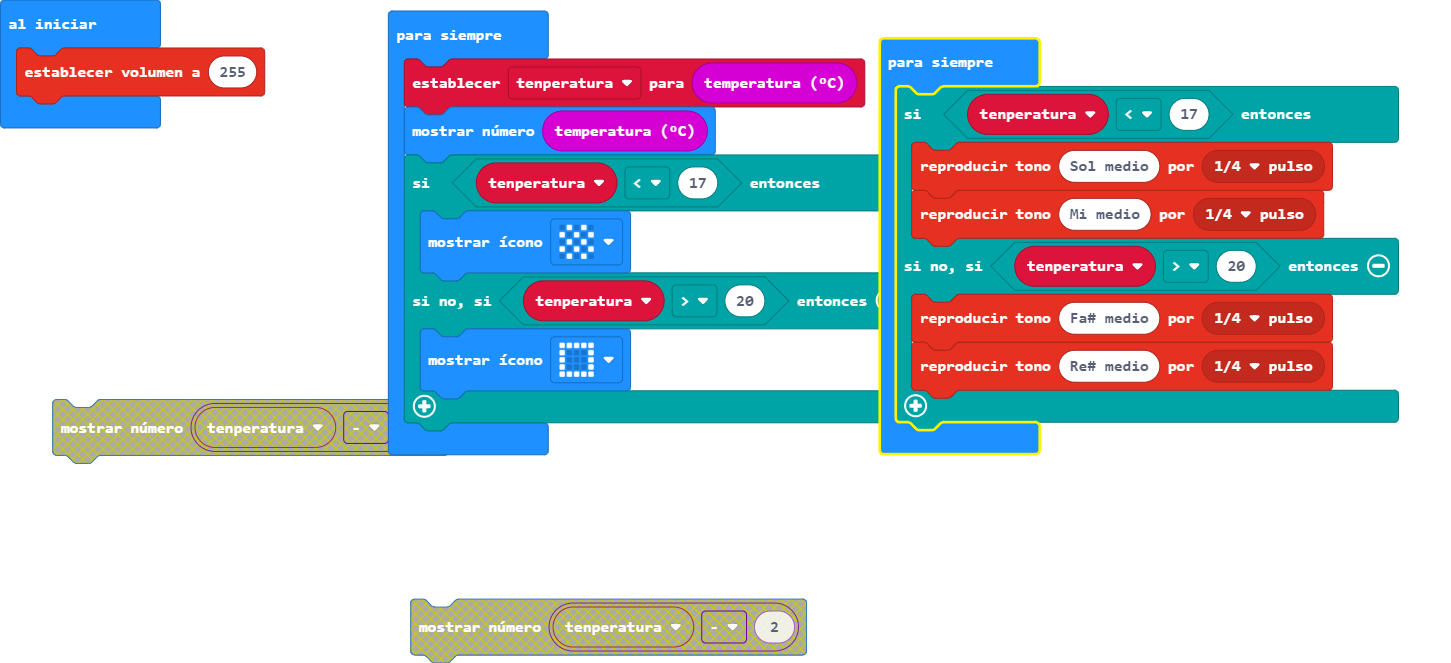
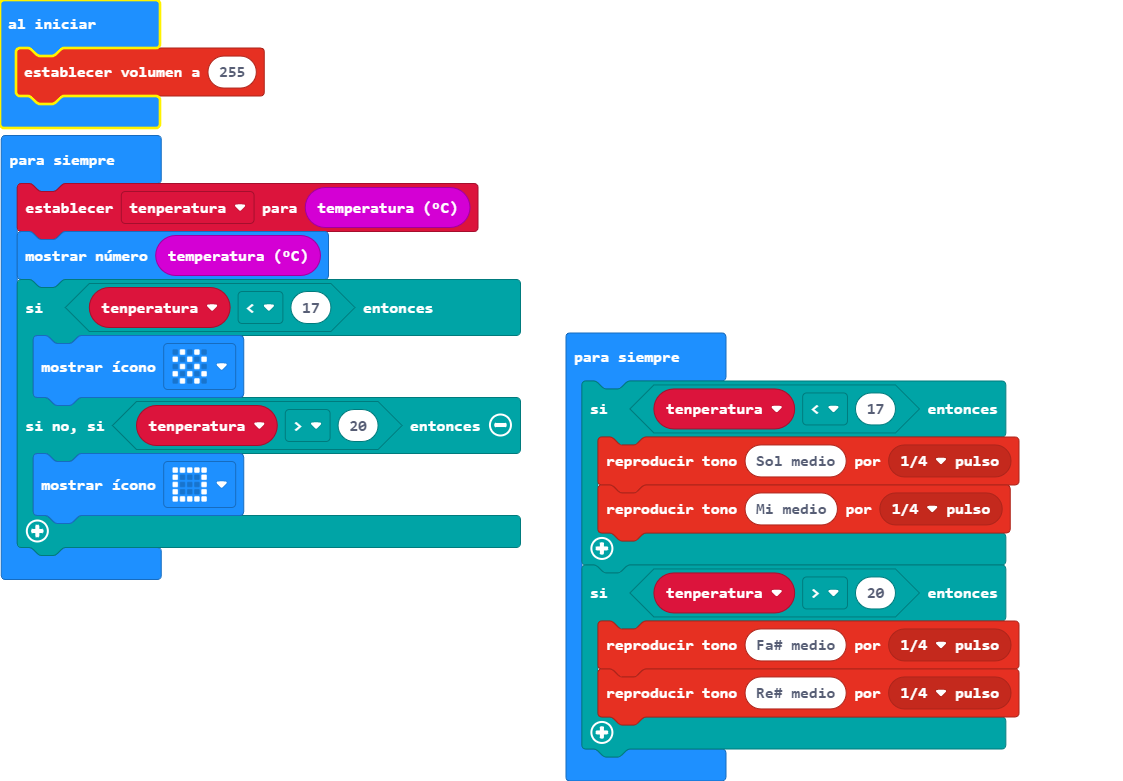
Actualizar main.blocks, main.ts

diff --git a/main.ts b/main.ts
@@ -13,7 +13,8 @@ basic.forever(function () {
     if (tenperatura < 17) {
         music.playTone(392, music.beat(BeatFraction.Quarter))
         music.playTone(330, music.beat(BeatFraction.Quarter))
-    } else if (tenperatura > 20) {
+    }
+    if (tenperatura > 20) {
         music.playTone(370, music.beat(BeatFraction.Quarter))
         music.playTone(311, music.beat(BeatFraction.Quarter))
     }
